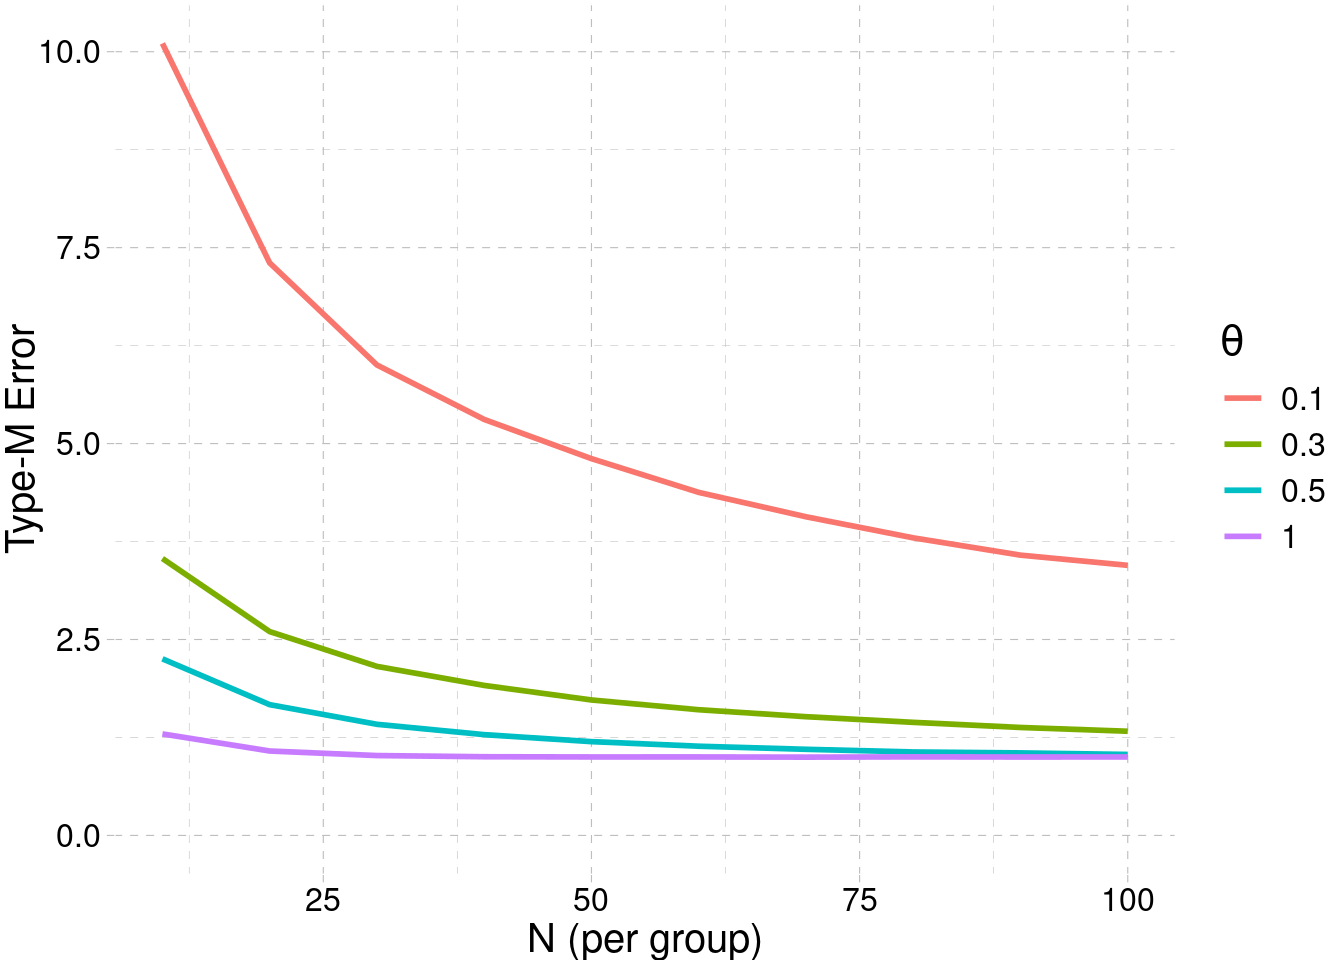
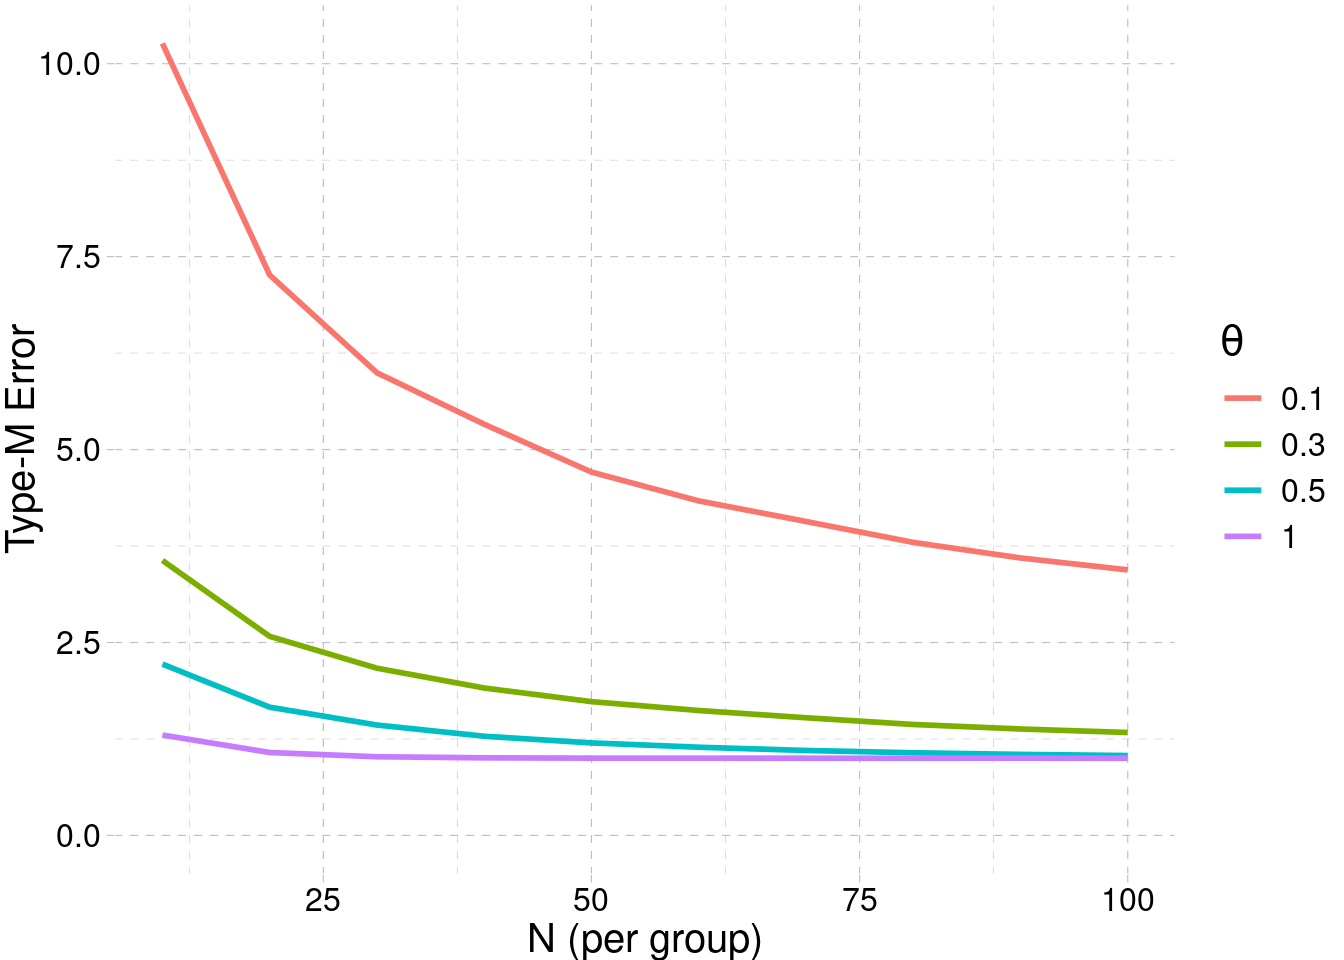
updating book

diff --git a/_book/chapters/chapter3.html b/_book/chapters/chapter3.html
@@ -261,9 +261,7 @@ window.Quarto = {
     </div>
 <!-- main -->
 <main class="content" id="quarto-document-content"><header id="title-block-header" class="quarto-title-block default"><div class="quarto-title">
-<h1 class="title">
-<span class="chapter-number">3</span>&nbsp; <span class="chapter-title">Probability of Replication</span>
-</h1>
+<h1 class="title"><span id="sec-prob-replication" class="quarto-section-identifier"><span class="chapter-number">3</span>&nbsp; <span class="chapter-title">Probability of Replication</span></span></h1>
 </div>
 
 
@@ -513,7 +511,7 @@ True
 </thead>
 <tbody>
 <tr>
-<td style="text-align:center;font-weight: bold;vertical-align: middle !important;" rowspan="2">
+<td style="text-align:center;font-weight: bold;">
 <span class="math inline">\(\boldsymbol{H_0}\)</span>
 </td>
 <td style="text-align:center;font-weight: bold;">
@@ -530,6 +528,9 @@ False Negative (<span class="math inline">\(\beta\)</span>)
 </td>
 </tr>
 <tr>
+<td style="text-align:center;font-weight: bold;">
+<span class="math inline">\(\boldsymbol{H_0}\)</span>
+</td>
 <td style="text-align:center;font-weight: bold;">
 True
 </td>
@@ -562,15 +563,15 @@ True Negative (<span class="math inline">\(1 - \alpha\)</span>)
 <p>We implemented the <span class="citation" data-cites="Miller2009-hp">Miller (<a href="chapter5.html#ref-Miller2009-hp" role="doc-biblioref">2009</a>)</span> equations in R (see also <code>?arp</code>):</p>
 <div class="cell" data-layout-align="center">
 <div class="sourceCode" id="cb3"><pre class="downlit sourceCode r code-with-copy"><code class="sourceCode R"><span><span class="va">arp</span> <span class="op">&lt;-</span> <span class="kw">function</span><span class="op">(</span><span class="va">R</span>, <span class="va">pi</span>, <span class="va">power</span>, <span class="va">alpha</span><span class="op">)</span> <span class="op">{</span></span>
-<span>  </span>
+<span></span>
 <span>    <span class="kw">if</span><span class="op">(</span><span class="fu"><a href="https://rdrr.io/r/base/any.html">any</a></span><span class="op">(</span><span class="va">R</span> <span class="op">&lt;</span> <span class="fl">2</span><span class="op">)</span><span class="op">)</span> <span class="kw"><a href="https://rdrr.io/r/base/stop.html">stop</a></span><span class="op">(</span><span class="st">"number of studies should be equal or greater than 2"</span><span class="op">)</span></span>
-<span>    </span>
+<span></span>
 <span>    <span class="kw">if</span><span class="op">(</span><span class="fu"><a href="https://rdrr.io/r/base/length.html">length</a></span><span class="op">(</span><span class="va">power</span><span class="op">)</span> <span class="op">!=</span> <span class="fl">1</span> <span class="op">&amp;</span> <span class="fu"><a href="https://rdrr.io/r/base/length.html">length</a></span><span class="op">(</span><span class="va">power</span><span class="op">)</span> <span class="op">!=</span> <span class="va">R</span><span class="op">)</span><span class="op">{</span></span>
 <span>      <span class="kw"><a href="https://rdrr.io/r/base/stop.html">stop</a></span><span class="op">(</span><span class="st">"length of power vector should be 1 or R"</span><span class="op">)</span></span>
 <span>    <span class="op">}</span></span>
-<span>    </span>
+<span></span>
 <span>    <span class="kw">if</span><span class="op">(</span><span class="fu"><a href="https://rdrr.io/r/base/length.html">length</a></span><span class="op">(</span><span class="va">power</span><span class="op">)</span> <span class="op">==</span> <span class="fl">1</span><span class="op">)</span> <span class="va">power</span> <span class="op">&lt;-</span> <span class="fu"><a href="https://rdrr.io/r/base/rep.html">rep</a></span><span class="op">(</span><span class="va">power</span>, <span class="va">R</span><span class="op">)</span></span>
-<span>  </span>
+<span></span>
 <span>    <span class="va">num</span> <span class="op">&lt;-</span> <span class="va">pi</span> <span class="op">*</span> <span class="fu"><a href="https://rdrr.io/r/base/prod.html">prod</a></span><span class="op">(</span><span class="va">power</span><span class="op">)</span> <span class="op">+</span> <span class="op">(</span><span class="fl">1</span> <span class="op">-</span> <span class="va">pi</span><span class="op">)</span> <span class="op">*</span> <span class="va">alpha</span> <span class="op">*</span> <span class="op">(</span><span class="va">alpha</span><span class="op">/</span><span class="fl">2</span><span class="op">)</span><span class="op">^</span><span class="op">(</span><span class="va">R</span> <span class="op">-</span> <span class="fl">1</span><span class="op">)</span></span>
 <span>    <span class="va">den</span> <span class="op">&lt;-</span> <span class="va">pi</span> <span class="op">*</span> <span class="va">power</span><span class="op">[</span><span class="fl">1</span><span class="op">]</span> <span class="op">+</span> <span class="op">(</span><span class="fl">1</span> <span class="op">-</span> <span class="va">pi</span><span class="op">)</span> <span class="op">*</span> <span class="va">alpha</span></span>
 <span>    <span class="va">num</span><span class="op">/</span><span class="va">den</span></span>
@@ -580,7 +581,7 @@ True Negative (<span class="math inline">\(1 - \alpha\)</span>)
 <p>The <a href="#fig-arp1" class="quarto-xref">Figure&nbsp;<span>3.4</span></a> depicts how the ARP changes as we vary the theory strength <span class="math inline">\(\pi\)</span> and the power (assumed to be the same for the original and replication experiment).</p>
 <div class="cell" data-layout-align="center">
 <div class="cell-output-display">
-<div id="fig-arp1" class="quarto-float quarto-figure quarto-figure-center anchored" data-fig-align="center" width="768">
+<div id="fig-arp1" class="quarto-float quarto-figure quarto-figure-center anchored" width="768" data-fig-align="center">
 <figure class="quarto-float quarto-float-fig figure"><div aria-describedby="fig-arp1-caption-0ceaefa1-69ba-4598-a22c-09a6ac19f8ca">
 <img src="chapter3_files/figure-html/fig-arp1-1.png" id="fig-arp1" class="img-fluid quarto-figure quarto-figure-center anchored figure-img" width="768">
 </div>
@@ -671,7 +672,7 @@ Code&nbsp;1: Type-M error simulation for a two-samples design
 </figure>
 </div>
 <div class="cell-output cell-output-stdout">
-<pre><code>[1] 1.739501</code></pre>
+<pre><code>[1] 1.748238</code></pre>
 </div>
 </div>
 <p>The type-M error increases as the sample size and/or the true effect size decreases. The <a href="#fig-typem" class="quarto-xref">Figure&nbsp;<span>3.6</span></a> shows the type-M error for different conditions.</p>
